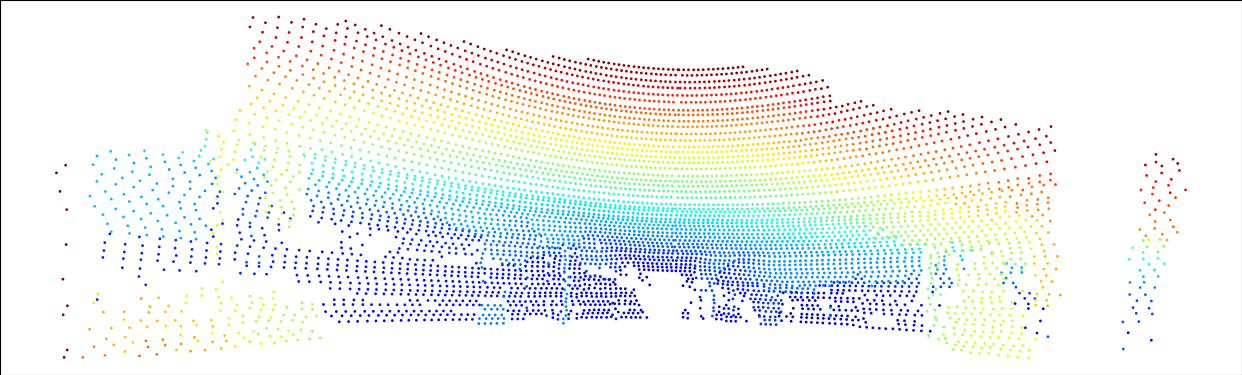
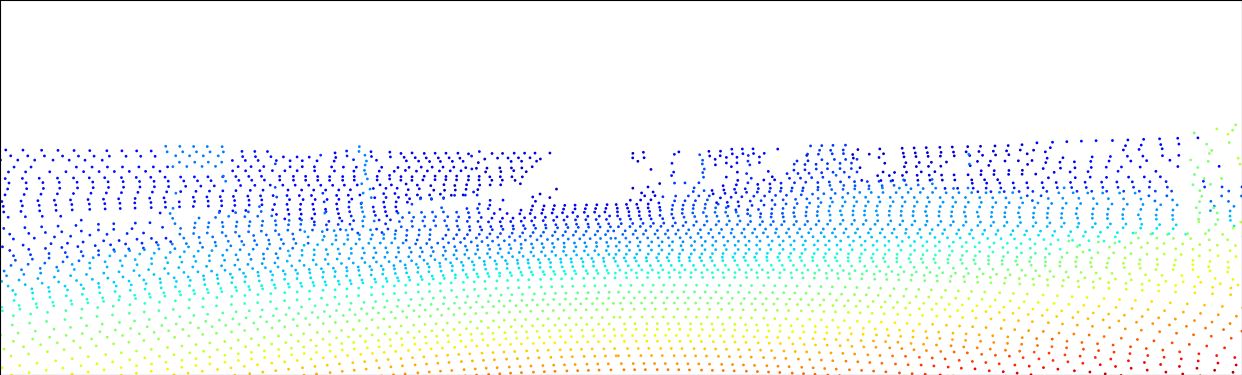
Fixed axes setting.

diff --git a/devkit/python/run_demoVelodyne.py b/devkit/python/run_demoVelodyne.py
@@ -64,14 +64,14 @@ def run_demoVelodyne(base_dir=None, calib_dir=None):
 
     col_indices = np.round(256 * 5 / velo[:, 0]).astype(int) - 1
     plt.scatter(x=velo_img[:, 0], y=velo_img[:, 1], c=cols[col_indices, 0:3], marker='o', s=1)
-    # for i in range(np.size(velo_img, 0)):
-    #     col_idx = int(round(256 * 5 / velo[i, 0])) - 1
-    #     plt.plot(velo_img[i, 0], velo_img[i, 1], 'o', linewidth=4, markersize=1, color=cols[col_idx, 0:3])
 
     plt.savefig('velo-only-pointcloud.png')
 
     dpi = fig.dpi
     fig.set_size_inches(image_resolution / dpi)
+    ax = plt.gca()
+    ax.set_xlim((-0.5, 1241.5))
+    ax.set_ylim((374.5, -0.5))
 
     plt.savefig('velo-set.png')
 
